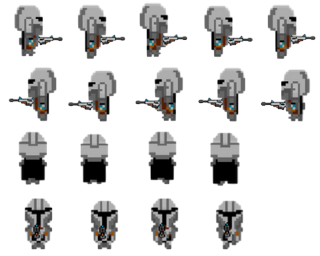
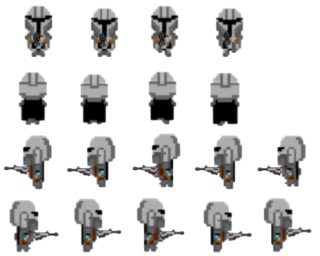
HAY BALAS LOCO

diff --git a/src/cazador.js b/src/cazador.js
@@ -11,11 +11,44 @@ class Cazador {
         this.width = 40;
         this.height = 40;
         this.velocidad = 3;
+        
+        // Sprites para cada arma
+        this.sprites = {
+            pistola: new Image(),
+            rifle: new Image(),
+            escopeta: new Image()
+        };
+        
+        // Configurar carga de sprites con logs
+        this.sprites.pistola.src = 'assets/frames-cazador/CAZADOR PISTOLAA.png';
+        this.sprites.rifle.src = 'assets/frames-cazador/CAZADOR RIFLEE.png';
+        this.sprites.escopeta.src = 'assets/frames-cazador/CAZADOR ESCOPETAA.png';
+        
+        // Configuración de animación
+        this.frameWidth = 64;  // Ajusta según tu spritesheet
+        this.frameHeight = 64; // Ajusta según tu spritesheet
+        this.framesPorFila = 4; // Ajusta según tu spritesheet
+        this.currentFrame = 0;
+        this.frameCounter = 0;
+        this.frameRate = 8;
+        this.direccion = 1; // 0=arriba, 1=abajo, 2=derecha, 3=izquierda
+        this.estaMoviendo = false;
+        
+        // Logs de debug
+        this.sprites.pistola.onload = () => console.log('✅ Sprite pistola cargado');
+        this.sprites.rifle.onload = () => console.log('✅ Sprite rifle cargado');
+        this.sprites.escopeta.onload = () => console.log('✅ Sprite escopeta cargado');
+        
+        // Fallback original
         this.imagen = new Image();
         this.imagen.src = 'assets/cazador.png';
+        
+        this.armaActual = 'pistola';
         this.teclas = {};
         this.direccionX = 0;
         this.direccionY = -1;
+        
+        console.log('🎯 Cazador creado, intentando cargar sprites...');
     }
 
     disparar(direccionX, direccionY) {
@@ -42,12 +75,15 @@ class Cazador {
         switch(tipoArma) {
             case 1:
                 this.arma = this.pistola;
+                this.armaActual = 'pistola';
                 break;
             case 2:
                 this.arma = this.rifle;
+                this.armaActual = 'rifle';
                 break;
             case 3:
                 this.arma = this.escopeta;
+                this.armaActual = 'escopeta';
                 break;
         }
         juego.actualizarUI();
@@ -80,14 +116,72 @@ class Cazador {
     }
 
     actualizar() {
-        if (this.teclas['KeyW']) this.mover(0, -this.velocidad);
-        if (this.teclas['KeyS']) this.mover(0, this.velocidad);
-        if (this.teclas['KeyA']) this.mover(-this.velocidad, 0);
-        if (this.teclas['KeyD']) this.mover(this.velocidad, 0);
+        this.estaMoviendo = false;
+        
+        if (this.teclas['KeyW']) {
+            this.mover(0, -this.velocidad);
+            this.direccion = 1; // Arriba
+            this.estaMoviendo = true;
+        }
+        if (this.teclas['KeyS']) {
+            this.mover(0, this.velocidad);
+            this.direccion = 0; // Abajo
+            this.estaMoviendo = true;
+        }
+        if (this.teclas['KeyA']) {
+            this.mover(-this.velocidad, 0);
+            this.direccion = 2; // Izquierda
+            this.estaMoviendo = true;
+        }
+        if (this.teclas['KeyD']) {
+            this.mover(this.velocidad, 0);
+            this.direccion = 3; // Derecha
+            this.estaMoviendo = true;
+        }
+        
+        this.actualizarAnimacion();
+    }
+    
+    actualizarAnimacion() {
+        this.frameCounter++;
+        
+        if (this.frameCounter >= this.frameRate) {
+            this.frameCounter = 0;
+            
+            if (this.estaMoviendo) {
+                this.currentFrame++;
+                if (this.currentFrame >= this.framesPorFila) {
+                    this.currentFrame = 0;
+                }
+            } else {
+                this.currentFrame = 0; // Frame idle
+            }
+        }
     }
 
     dibujar(ctx) {
-        ctx.drawImage(this.imagen, this.x, this.y, this.width, this.height);
+        const spriteArma = this.sprites[this.armaActual];
+        
+        // Usar sprite específico del arma si está cargado
+        if (spriteArma && spriteArma.complete) {
+            const frameX = this.currentFrame * this.frameWidth;
+            const frameY = this.direccion * this.frameHeight;
+            
+            ctx.drawImage(
+                spriteArma,
+                frameX, frameY, this.frameWidth, this.frameHeight,
+                this.x, this.y, this.width, this.height
+            );
+        }
+        // Fallback: sprite original
+        else if (this.imagen && this.imagen.complete) {
+            ctx.drawImage(this.imagen, this.x, this.y, this.width, this.height);
+        }
+        // Último fallback: rectángulo
+        else {
+            ctx.fillStyle = '#4169E1';
+            ctx.fillRect(this.x, this.y, this.width, this.height);
+        }
     }
 
     colisionaCon(animal) {

diff --git a/src/bala.js b/src/bala.js
@@ -9,8 +9,36 @@ class Bala {
         this.width = 20;
         this.height = 20;
         this.activa = true;
-        this.imagen = new Image();
-        this.imagen.src = 'assets/bala.gif';
+        //this.imagen = new Image();
+        //this.imagen.src = 'assets/balas/bala.gif';
+
+
+        // Cargar sprite sheet
+        this.spriteSheet = new Image();
+        this.spriteSheet.src = 'assets/balas/balas-Frames.png';
+        this.imagenCargada = false;
+        
+        this.spriteSheet.onload = () => {
+            this.imagenCargada = true;
+            console.log("✅ Sprite de bala cargado!");
+        };
+        
+        this.spriteSheet.onerror = () => {
+            console.error("❌ Error al cargar sprite de bala");
+        };
+        
+        // CONFIGURACIÓN PARA SPRITE DE BALA
+        this.frameWidth = 64;
+        this.frameHeight = 64;
+        this.framesPorFila = 6;
+        
+        this.currentFrame = 0;
+        this.frameCounter = 0;
+        this.frameRate = 5; // Animación rápida para bala
+        
+        // Determinar dirección para sprite
+        this.direccionSprite = this.calcularDireccionSprite(direccionX, direccionY);
+    
     }
     
     actualizar() {
@@ -18,6 +46,9 @@ class Bala {
         
         this.x += this.direccionX * this.velocidad;
         this.y += this.direccionY * this.velocidad;
+        
+        // Actualizar animación
+        this.actualizarAnimacion();
         
         // Verificar colisión con cualquier animal
         juego.animales.forEach(animal => {
@@ -40,9 +71,47 @@ class Bala {
                this.y + this.height > animal.y;
     }
     
+    calcularDireccionSprite(dx, dy) {
+        if (dy < 0) return 0;      // Arriba
+        if (dy > 0) return 1;      // Abajo  
+        if (dx > 0) return 2;      // Derecha
+        if (dx < 0) return 3;      // Izquierda
+        return 0; // Default
+    }
+    
+    actualizarAnimacion() {
+        if (!this.imagenCargada) return;
+        
+        this.frameCounter++;
+        
+        if (this.frameCounter >= this.frameRate) {
+            this.frameCounter = 0;
+            this.currentFrame++;
+            
+            if (this.currentFrame >= this.framesPorFila) {
+                this.currentFrame = 0;
+            }
+        }
+    }
+    
     dibujar(ctx) {
-        if (this.activa) {
-            ctx.drawImage(this.imagen, this.x, this.y, this.width, this.height);
+        if (!this.activa) return;
+        
+        if (this.imagenCargada) {
+            const frameX = this.currentFrame * this.frameWidth;
+            const frameY = this.direccionSprite * this.frameHeight;
+            
+            ctx.drawImage(
+                this.spriteSheet,
+                frameX, frameY, this.frameWidth, this.frameHeight,
+                this.x, this.y, this.width, this.height
+            );
+        } else {
+            // Fallback: círculo amarillo
+            ctx.fillStyle = '#FFD700';
+            ctx.beginPath();
+            ctx.arc(this.x + this.width/2, this.y + this.height/2, this.width/2, 0, Math.PI * 2);
+            ctx.fill();
         }
     }
 }

diff --git a/src/animales.js b/src/animales.js
@@ -108,11 +108,11 @@ class Oso extends Animal {
         this.width = 80;  // Mucho más grande que el cazador
         this.height = 80;
         this.velocidad = 1;
-        this.rangoDeteccion = 150;
+        this.rangoDeteccion = 100;
         
         // Cargar sprite sheet
         this.spriteSheet = new Image();
-        this.spriteSheet.src = './assets/oso-idle-2.png';
+        this.spriteSheet.src = '/assets/frames-oso/oso-idle-2.png';
         this.imagenCargada = false;
         
         this.spriteSheet.onload = () => {
